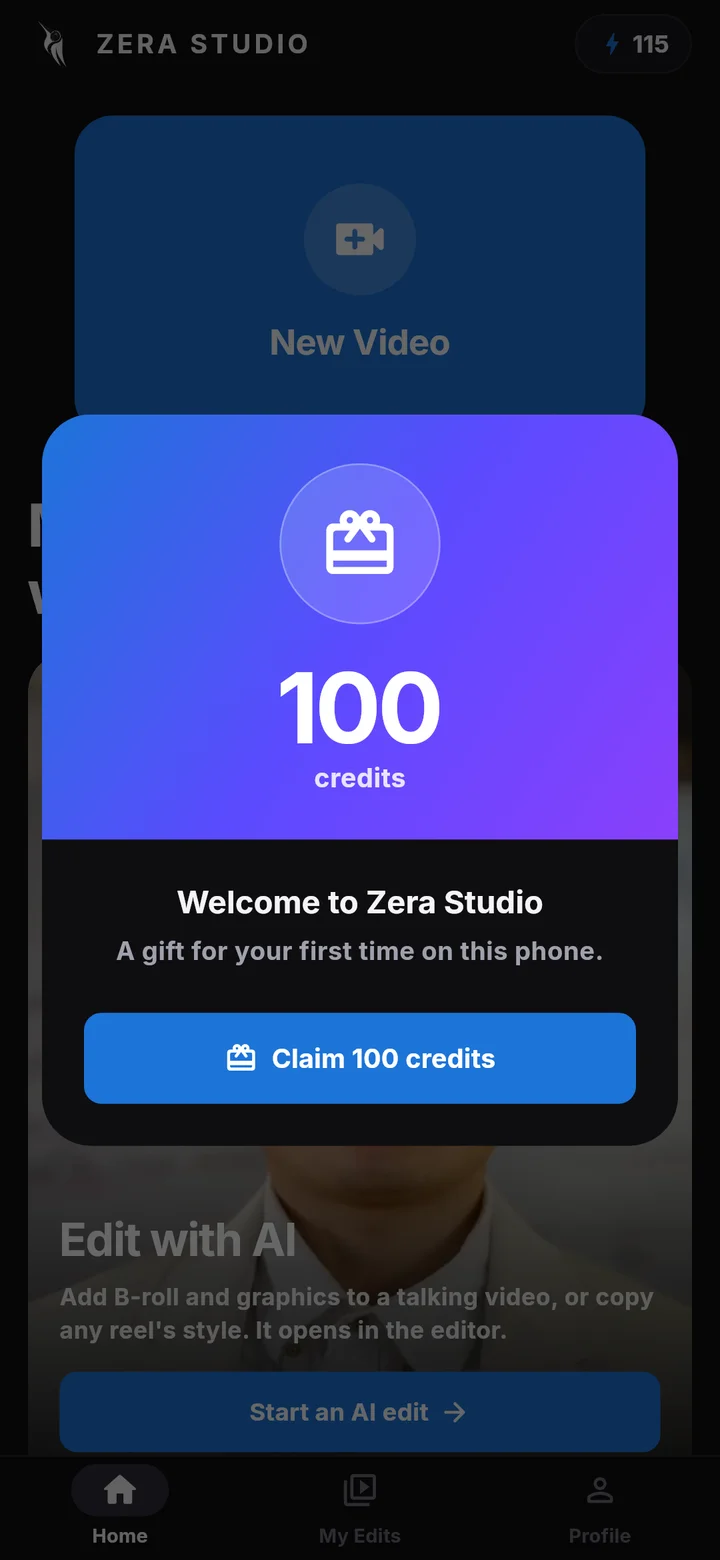
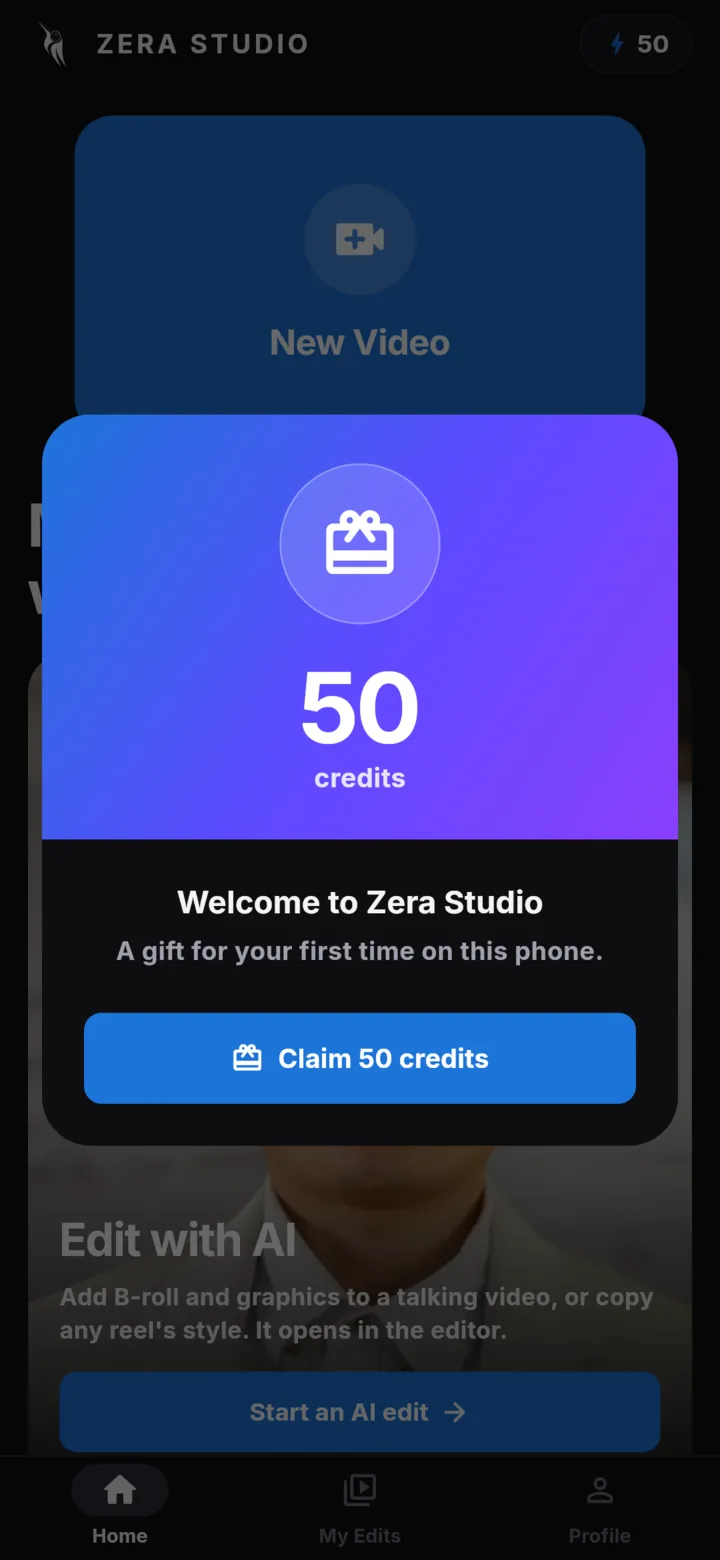
Pricing: reference edit 15 credits (20 over 9 min of clips, 25 over 15); welcome 50 (#5)
His decision of 2026-10-17. Every price and welcome mention, the sentences derived from the welcome amount (seconds of
B-roll, minutes of captions, number of edits), the welcome and AI-hub screenshots re-rendered with 50, and the stale
per-user daily limits removed.

Changed region(s): [[0.3056, 0.6462, 0.7028, 0.7077], [0.3667, 0.4308, 0.6111, 0.4923], [0.8861, 0.0, 0.9167, 0.0308]]

diff --git a/src/components/site/features.ts b/src/components/site/features.ts
@@ -70,11 +70,10 @@ export const features: Feature[] = [
     limits: [
       ["Your video", "A talking video up to 3 minutes"],
       ["Cost", "30 credits a minute, charged by the second"],
-      ["Daily limit", "3 AI B-roll runs a day"],
       ["If it fails", "The credits come back"],
       ["Result", "Opens in the editor; export from 480p to 4K"],
     ],
-    example: `A 90-second video costs 45 credits. The ${W} free credits every new phone gets cover a little over three minutes of AI B-roll.`,
+    example: `A 90-second video costs 45 credits. The ${W} free credits every new phone gets cover ${Math.floor((W / 30) * 60)} seconds of AI B-roll.`,
     who: [
       { t: "Talking-head creators", d: "Tips, explainers and opinions that need visuals between the words." },
       { t: "Coaches and teachers", d: "Lessons that land better when the screen shows what you describe." },
@@ -125,7 +124,7 @@ export const features: Feature[] = [
       ["Charged", "By the second, shown before it starts"],
       ["Editing captions", "Free"],
     ],
-    example: `A one-minute Reel with Hinglish captions costs 3 credits, so the ${W} free credits on a new phone cover more than half an hour of Hinglish captioning.`,
+    example: `A one-minute Reel with Hinglish captions costs 3 credits, so the ${W} free credits on a new phone cover ${Math.floor(W / 3)} minutes of Hinglish captioning.`,
     who: [
       { t: "Indian creators", d: "Reels and Shorts in the language your audience actually speaks." },
       { t: "Educators", d: "Hindi-English explainers that viewers can follow with the sound off." },
@@ -174,7 +173,7 @@ export const features: Feature[] = [
       ["Charged", "By the second, shown before it starts"],
       ["Restyling and editing", "Free"],
     ],
-    example: `A 45-second Reel with English captions costs 1 credit. The ${W} free credits on a new phone caption more than an hour and a half of video.`,
+    example: `A 45-second Reel with English captions costs 1 credit. The ${W} free credits on a new phone caption ${W} minutes of video.`,
     who: [
       { t: "Reels and Shorts creators", d: "Captions that keep viewers watching with the sound off." },
       { t: "Podcast and interview clips", d: "Readable, timed text for every line spoken." },
@@ -194,12 +193,12 @@ export const features: Feature[] = [
     menu: "Reference edit",
     title: "Copy a Reel's Editing Style Onto Your Clips | Zera",
     description:
-      "Give Zera a reel you like and your own clips. It copies the cuts, pacing, transitions and effects onto your footage, on the beat. 5 credits an edit.",
+      "Give Zera a reel you like and your own clips. It copies the cuts, pacing, transitions and effects onto your footage, on the beat. 15 credits an edit.",
     kicker: "Reference to edit",
     h1: "Copy any reel's edit onto your own clips",
     lead:
       "Found a reel whose editing you love? Give Zera that reel and your own clips. It reads where the reference cuts, how long each shot holds, which transitions and effects it uses and where the beat lands, then builds the same edit from your footage, cut to the reference's music. The result opens in the editor, so you can change anything.",
-    facts: [["Cuts, pacing", "transitions and effects"], ["On the beat", "of the reference's music"], ["1–15 clips", "or photos"], ["5 credits", "an edit"]],
+    facts: [["Cuts, pacing", "transitions and effects"], ["On the beat", "of the reference's music"], ["1–15 clips", "or photos"], ["15 credits", "an edit"]],
     steps: [
       { t: "Pick the reference", d: "Any reel or short video whose editing you like, up to 6 minutes long." },
       { t: "Add your clips", d: "1 to 15 of your own videos or photos, up to 30 minutes together. Add a note if you like: keep it fast and punchy, start with my best clip, slow and cinematic." },
@@ -220,11 +219,10 @@ export const features: Feature[] = [
     limits: [
       ["Reference", "Up to 6 minutes"],
       ["Your clips", "1–15 videos or photos, up to 30 minutes together"],
-      ["Cost", "5 credits an edit"],
-      ["Daily limit", "3 reference edits a day"],
+      ["Cost", "15 credits an edit; 20 when your clips run over 9 minutes, 25 over 15"],
       ["If it fails", "The credits come back"],
     ],
-    example: `Each reference edit costs 5 credits, so the ${W} free credits on a new phone are enough for 20 edits.`,
+    example: `Each reference edit costs 15 credits, so the ${W} free credits on a new phone are enough for ${Math.floor(W / 15)} edits.`,
     who: [
       { t: "Travel and event creators", d: "Turn a day of clips into the edit you saw on someone else's reel." },
       { t: "Car, sport and dance edits", d: "Beat-cut montages without placing a single cut by hand." },
@@ -235,7 +233,7 @@ export const features: Feature[] = [
       { q: "Does the edit use the reference's music?", a: "Yes, the reference's audio becomes the soundtrack and your cuts land on its beat. You can replace it with other music in the editor. Make sure you have the right to use a track where you post." },
       { q: "How many clips can I use?", a: "From 1 to 15 videos or photos, up to 30 minutes of footage together. More clips give Zera more moments to choose from." },
       { q: "How long can the reference be?", a: "Up to 6 minutes. Most references are Reels or Shorts under a minute." },
-      { q: "How much does it cost?", a: `5 credits an edit, shown before it starts, and given back if the edit fails. New phones get ${W} free credits once.` },
+      { q: "How much does it cost?", a: `15 credits an edit, or 20 when your clips run over 9 minutes and 25 over 15 minutes. The price is shown before it starts and given back if the edit fails. New phones get ${W} free credits once.` },
       { q: "Is this the same as a template?", a: "No. A template fixes the slots and you fill them. Here any video can be the reference, and Zera chooses which part of your footage goes where." },
     ],
   },

diff --git a/src/components/FAQ.tsx b/src/components/FAQ.tsx
@@ -13,7 +13,7 @@ export const faqs = [
   {
     question: "How many credits does each AI feature use?",
     answer:
-      "AI B-roll uses 30 credits per minute of video, reference to edit uses 5 credits per edit, and auto captions use 1 credit per minute for Auto, Hindi or English and 3 credits per minute for Hinglish. The price is shown before you start, and a run that fails gives its credits back."
+      "AI B-roll uses 30 credits per minute of video, reference to edit uses 15 credits per edit (20 when your clips run over 9 minutes, 25 over 15 minutes), and auto captions use 1 credit per minute for Auto, Hindi or English and 3 credits per minute for Hinglish. The price is shown before you start, and a run that fails gives its credits back."
   },
   {
     question: "Do Hinglish captions come out in Hindi script?",

diff --git a/src/components/site/content.ts b/src/components/site/content.ts
@@ -19,7 +19,7 @@ export const faqs = [
   {
     question: "How many credits does each AI feature use?",
     answer:
-      "AI B-roll uses 30 credits per minute of video, reference to edit uses 5 credits per edit, and auto captions use 1 credit per minute (3 for Hinglish). The price is shown before you start, and a run that fails gives its credits back.",
+      "AI B-roll uses 30 credits per minute of video, reference to edit uses 15 credits per edit (20 when your clips run over 9 minutes, 25 over 15 minutes), and auto captions use 1 credit per minute (3 for Hinglish). The price is shown before you start, and a run that fails gives its credits back.",
   },
   {
     question: "Do Hinglish captions come out in Hindi script?",

diff --git a/src/config/site.ts b/src/config/site.ts
@@ -63,10 +63,10 @@ export const siteConfig = {
  * When a number changes there, change it here.
  */
 export const pricing = {
-  welcomeCredits: 100,
+  welcomeCredits: 50,
   costs: [
     { feature: "AI B-roll", amount: "30", unit: "credits / min of video" },
-    { feature: "Reference to edit", amount: "5", unit: "credits / edit" },
+    { feature: "Reference to edit", amount: "15", unit: "credits / edit (20 over 9 min of clips, 25 over 15 min)" },
     { feature: "Auto captions (Auto, Hindi, English)", amount: "1", unit: "credit / min" },
     { feature: "Hinglish captions (Roman script)", amount: "3", unit: "credits / min" },
     { feature: "Manual editor, effects, export", amount: "0", unit: "free, forever" }
